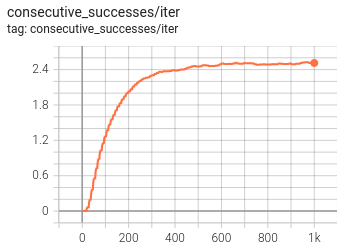
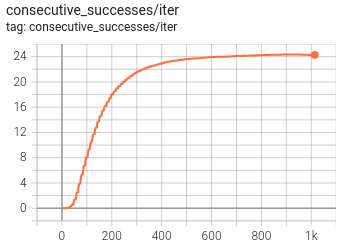
Update new training result

Changed region(s): [[0.0294, 0.1714, 1.0, 1.0], [0.0, 0.0, 0.5294, 0.1429]]

diff --git a/README.md b/README.md
@@ -110,7 +110,7 @@ You can also skip training by downloading the pre-trained model checkpoint by:
 
 ```sh
 cd ~/OmniIsaacGymEnvs-DofbotReacher
-wget https://github.com/j3soon/OmniIsaacGymEnvs-DofbotReacher/releases/download/v1.0.0/runs.zip
+wget https://github.com/j3soon/OmniIsaacGymEnvs-DofbotReacher/releases/download/v1.1.0/runs.zip
 unzip runs.zip
 ```
 
